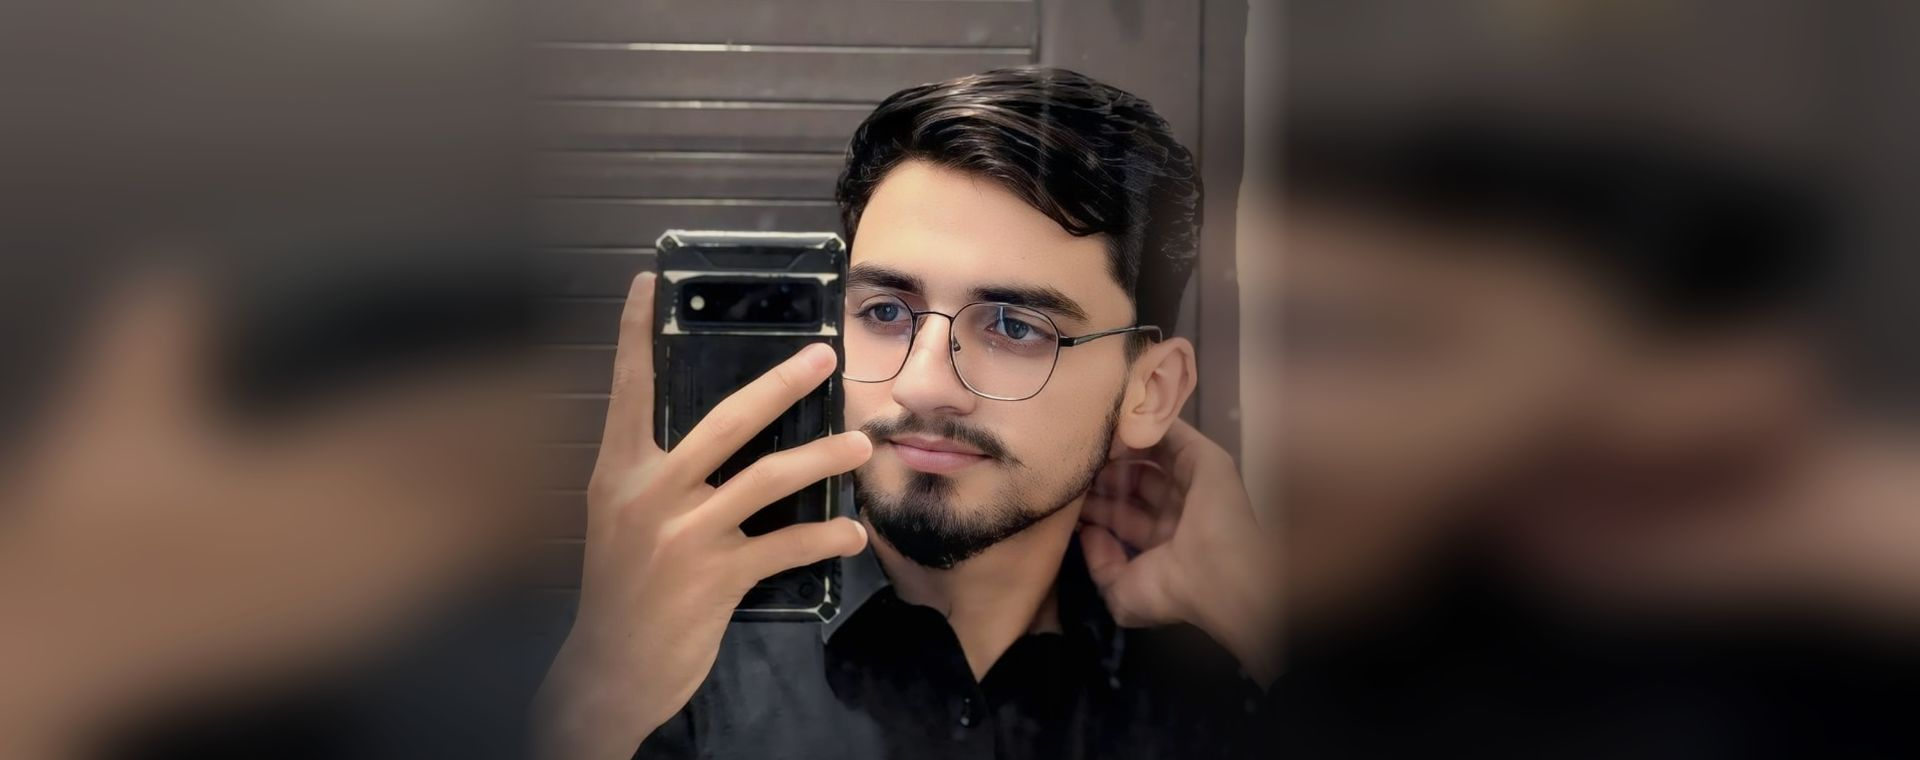
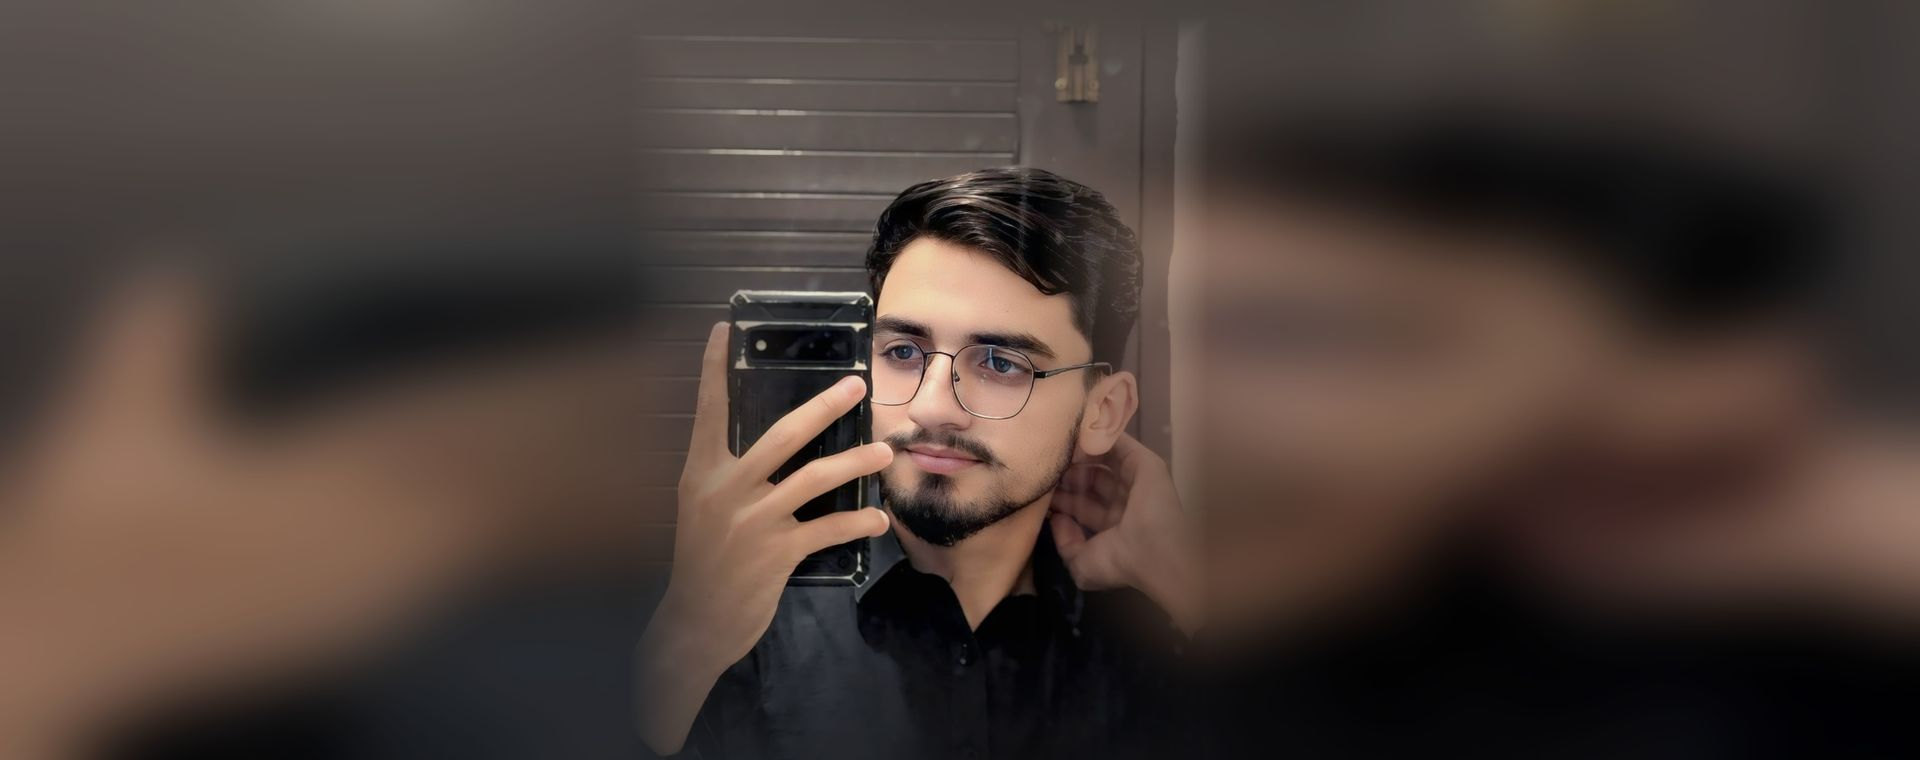
Reduce mobile hero zoom while keeping portrait centered.

Changed region(s): [[0.2812, 0.0, 0.6875, 1.0], [0.4062, 0.9987, 0.4375, 1.0]]

diff --git a/assets/css/main.css b/assets/css/main.css
@@ -1231,16 +1231,11 @@ section,
     font-size: 18px;
   }
 
-  /* on mobile, keep the portrait centred in the frame instead of cropping a corner */
-  .hero {
-    min-height: 72vh;
-    padding: 64px 0;
-  }
-
+  /* on mobile: same scale as before, portrait centred */
   .hero img,
   .hero picture img {
-    object-position: center 18%;
-    transform: scale(1.02);
+    object-position: center 28%;
+    transform: scale(1.04);
     left: 0;
     width: 100%;
   }
@@ -1383,7 +1378,7 @@ section,
   .page-hero {
     padding: 74px 16px 62px;
     min-height: 300px;
-    background-position: center 18%;
+    background-position: center 28%;
     background-image: url("../img/m-resume-mobile.jpg");
   }
 

diff --git a/index.html b/index.html
@@ -103,8 +103,8 @@
     <section id="hero" class="hero section">
 
       <picture class="hero-bg">
-        <source media="(max-width: 768px)" srcset="assets/img/m-home-mobile.jpg?v=1">
-        <img src="assets/img/m-home.jpg?v=1" alt="Saqib Sharif">
+        <source media="(max-width: 768px)" srcset="assets/img/m-home-mobile.jpg?v=2">
+        <img src="assets/img/m-home.jpg?v=2" alt="Saqib Sharif">
       </picture>
 
       <div class="container text-center">
